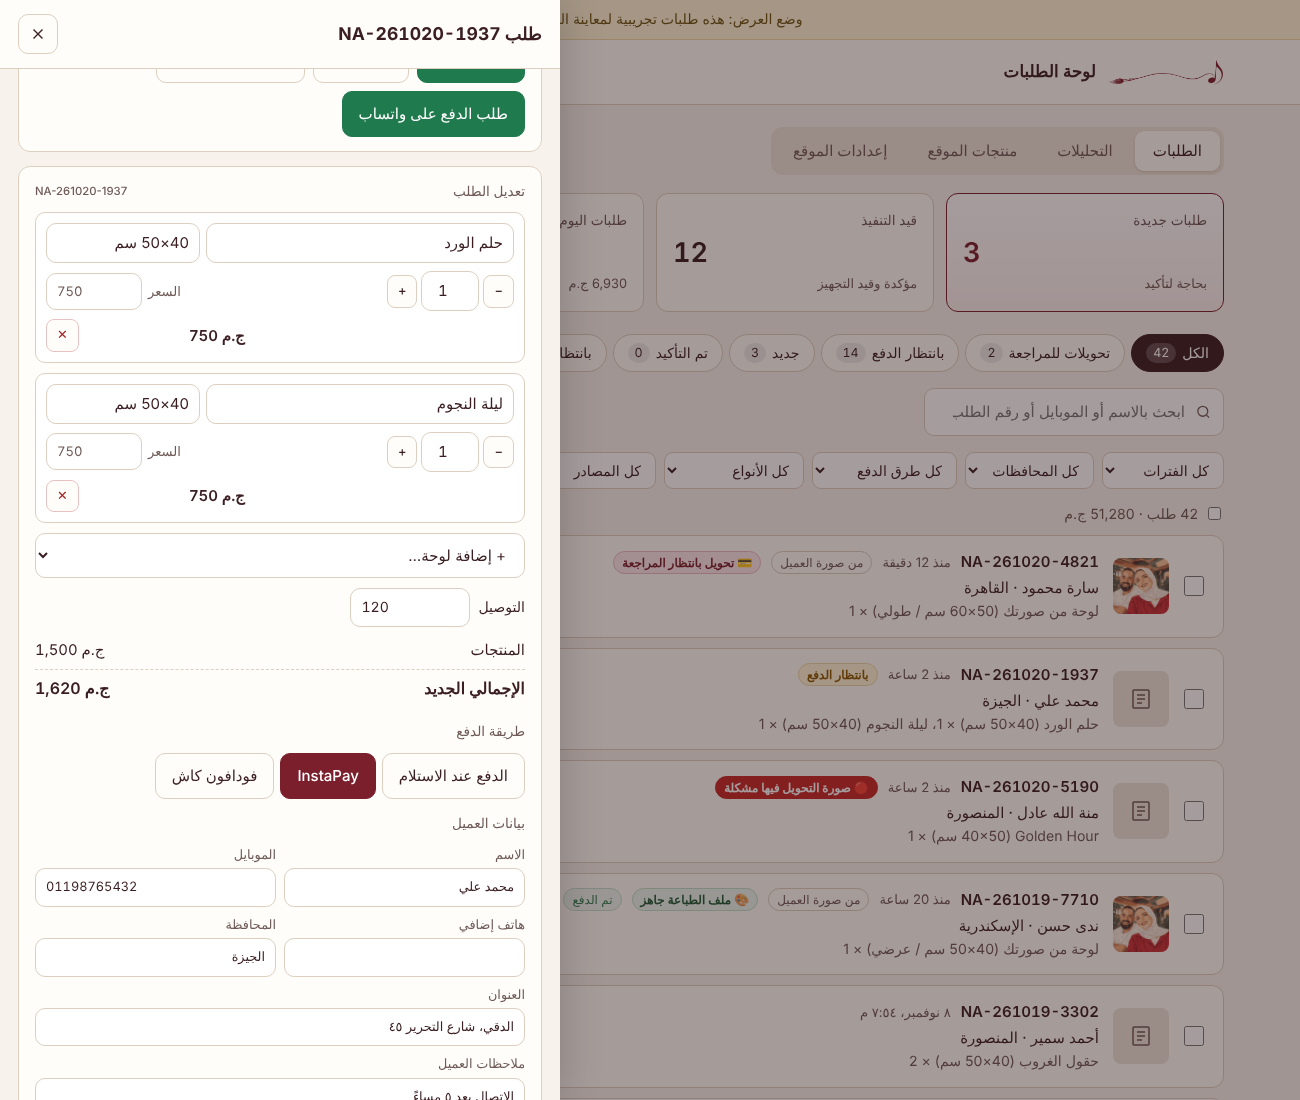
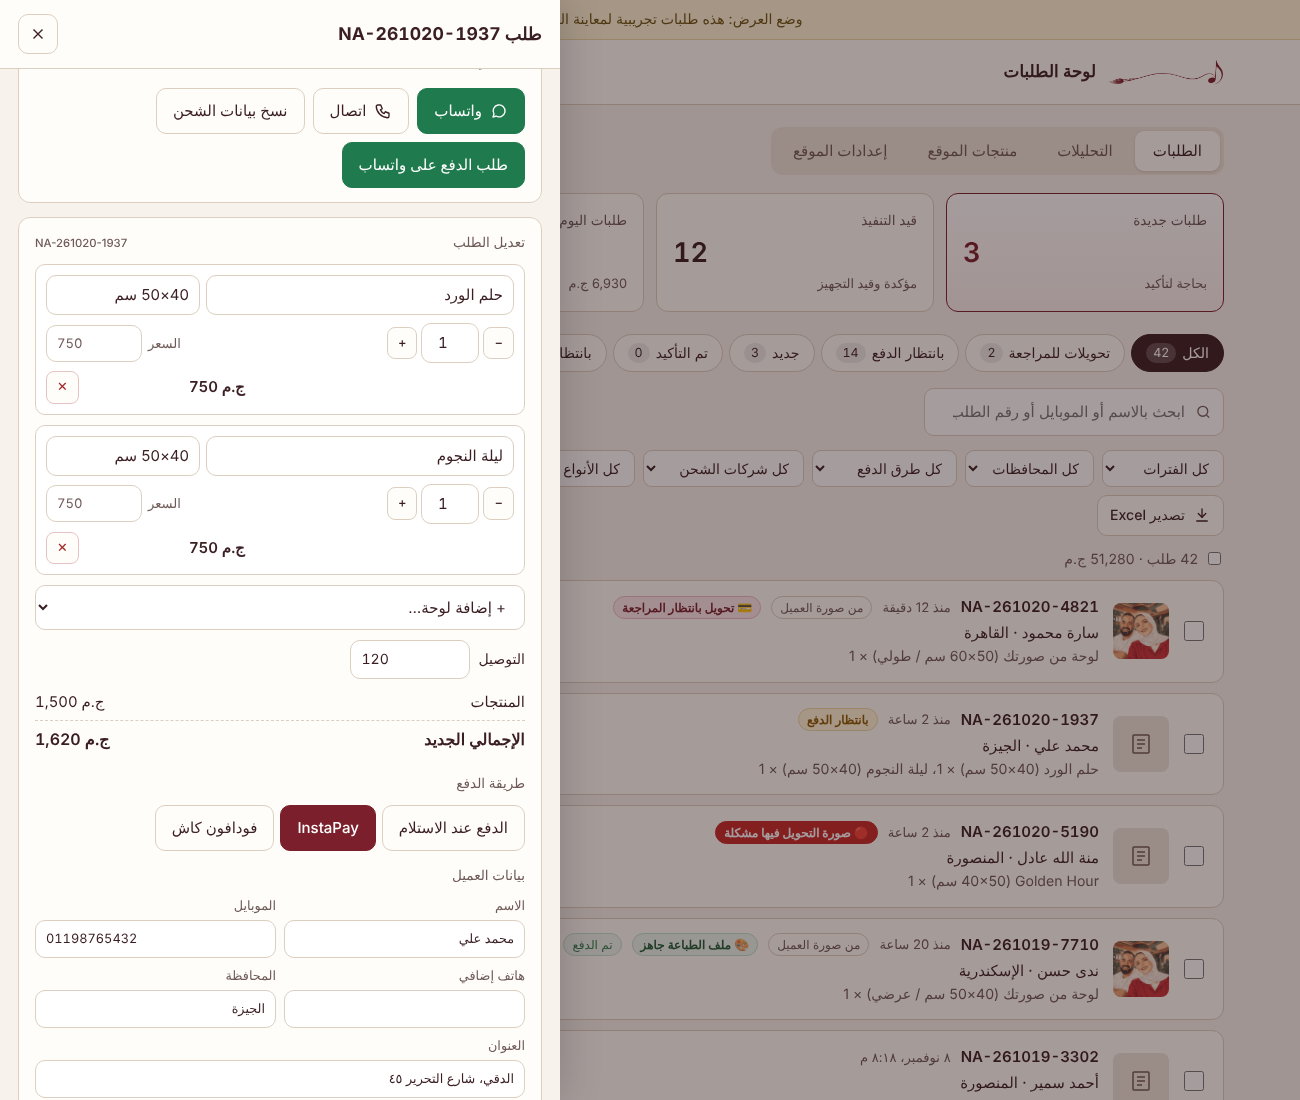
Website visit counter + visits/conversion section in dashboard analytics
- Site logs one row per visit and one per step reached (saw a painting, cart, checkout, order, WhatsApp, photo)
  to a 'Visits' sheet; bots, local previews and the owner's own devices are skipped
- Dashboard analytics: visits, visitors (new/returning), ordered vs didn't, conversion rate, cart and
  checkout drop-off, revenue per visit, visitor funnel, sources with conversion, daily visits, most viewed
  paintings, devices
- Orders now record the referring site (Instagram/Facebook/TikTok…) when there is no utm_source

Claude-Session: https://claude.ai/code/session_012qwmeryyhiwC2byANUMWpq

diff --git a/src/scripts/app.js b/src/scripts/app.js
@@ -115,6 +115,7 @@ function track(event, p = {}) {
     }
     if (window.clarity) window.clarity('event', event);
   } catch {}
+  visitStep({ view_item: 'view', add_to_cart: 'cart', begin_checkout: 'checkout', purchase: 'order', contact: p.method === 'whatsapp' ? 'whatsapp' : '', generate_lead: p.method === 'custom_photo' ? 'photo' : '' }[event]);
 }
 // remember where the visitor came from (first visit only)
 (() => {
@@ -129,6 +130,47 @@ function track(event, p = {}) {
   } catch {}
 })();
 const source = () => { try { return JSON.parse(sessionStorage.getItem('nay-src')) || {}; } catch { return {}; } };
+
+/** Where the visitor came from: the ad's utm_source, else the site that sent them (Instagram, Facebook, TikTok, Google…), else direct. */
+function trafficSource() {
+  const src = source(), host = (() => { try { return new URL(src.referrer).hostname.replace(/^www\./, ''); } catch { return ''; } })();
+  return String(src.utm_source || (src.fbclid ? 'facebook' : src.gclid ? 'google' : /instagram/.test(host) ? 'instagram' : /facebook|fb\.|messenger/.test(host) ? 'facebook' : /tiktok/.test(host) ? 'tiktok' : /google\./.test(host) ? 'google' : /whatsapp|wa\.me/.test(host) ? 'whatsapp' : host && host !== location.hostname ? host : 'direct')).toLowerCase().slice(0, 60);
+}
+/* ---------- visit counter (shown in the dashboard: visits → saw a painting → cart → checkout → order) ---------- */
+// One row per visit + one per step the visitor reaches. Bots, previews and the owner's own devices (logged into /admin) are not counted.
+const visit = (() => {
+  try {
+    const ua = navigator.userAgent || '';
+    const test = sessionStorage.getItem('nay-track-test') === '1';
+    if (!S.orders_endpoint || navigator.webdriver && !test || /bot|crawl|spider|slurp|lighthouse|headless|preview|facebookexternalhit|whatsapp\/|telegram/i.test(ua)) return null;
+    if (/^(localhost|127\.|\[::1\])/.test(location.hostname) && !test) return null;
+    if (localStorage.getItem('nay-owner') === '1') return null;
+    const rid = () => Date.now().toString(36) + Math.random().toString(36).slice(2, 10);
+    let vid = localStorage.getItem('nay-vid'); const ret = !!vid;
+    if (!vid) { vid = rid(); localStorage.setItem('nay-vid', vid); }
+    let ses = null; try { ses = JSON.parse(localStorage.getItem('nay-ses')); } catch {}
+    const now = Date.now(), fresh = !ses || now - ses.last > 30 * 60e3; // a new visit after 30 minutes away
+    if (fresh) ses = { id: rid(), last: now, steps: {} };
+    ses.last = now; localStorage.setItem('nay-ses', JSON.stringify(ses));
+    const src = source(), from = trafficSource();
+    const w = Math.min(screen.width, screen.height), device = /iPad|Tablet/i.test(ua) || (w >= 600 && /Android|Mobi/i.test(ua)) ? 'tablet' : /Mobi|Android|iPhone/i.test(ua) ? 'mobile' : 'desktop';
+    const base = { type: 'visit', vid, sid: ses.id, src: from, campaign: src.utm_campaign || '', device, lang, ret };
+    const send = (e, path) => {
+      const body = JSON.stringify({ ...base, e, path: path || location.pathname });
+      try { if (navigator.sendBeacon && navigator.sendBeacon(S.orders_endpoint, body)) return; } catch {}
+      fetch(S.orders_endpoint, { method: 'POST', body, keepalive: true, mode: 'no-cors' }).catch(() => {});
+    };
+    if (fresh) send('visit', src.landing || location.pathname);
+    return { step(e) {
+      let s = null; try { s = JSON.parse(localStorage.getItem('nay-ses')); } catch {}
+      if (!s || s.id !== ses.id) s = ses;
+      const k = e === 'view' ? 'view:' + location.pathname : e; // each painting page counts once per visit
+      if (s.steps[k]) return;
+      s.steps[k] = 1; s.last = Date.now(); localStorage.setItem('nay-ses', JSON.stringify(s)); send(e);
+    } };
+  } catch { return null; }
+})();
+function visitStep(e) { try { if (e && visit) visit.step(e); } catch {} }
 
 /* ---------- toast ---------- */
 function toast(m) { const t = $('toast'); t.textContent = m; t.classList.add('on'); clearTimeout(toast.h); toast.h = setTimeout(() => t.classList.remove('on'), 2200); }
@@ -269,7 +311,7 @@ async function placeOrder(btn) {
   const customer = { name: $('f-name').value.trim(), phone: phoneNumber($('f-phone').value), phone_extra: phoneNumber($('f-phone-extra').value), location: {...deliveryLocation}, city: T.gov[cityIdx], address: $('f-addr').value.trim(), notes: $('f-note').value.trim() };
   store.set('nay-customer', { name: customer.name, phone: customer.phone, phone_extra:customer.phone_extra, location:customer.location, city: cityIdx, addr: customer.address });
   const items = cart.map((c) => { const l = lineInfo(c); return { slug: c.kind === 'custom' ? 'custom' : c.slug, name: l.name, option: l.option, display: l.display, qty: c.q, price: l.price, line: l.price * c.q, custom: c.kind === 'custom', note: c.note || '', key: c.key, thumb: c.kind === 'custom' ? c.thumb || '' : '', ...(c.kind === 'custom' && c.crop ? { crop: c.crop } : {}), ...(c.kind === 'custom' && c.mimi ? { mimi_key: c.mimi } : {}) }; });
-  const order = { type: 'order', id, created: d.toISOString(), lang, customer, payment: payV, payment_label: payLabel, items, subtotal: t.sub, delivery: t.ship, total: t.total, source: source(), page: location.href };
+  const order = { type: 'order', id, created: d.toISOString(), lang, customer, payment: payV, payment_label: payLabel, items, subtotal: t.sub, delivery: t.ship, total: t.total, source: { ...source(), via: trafficSource() }, page: location.href };
   const transfer = isTransfer(payV) && transferProof ? { data: transferProof, ref: ($('trRef')?.value || '').trim() } : null;
   placingOrder = true; btn.disabled = true; btn.textContent = tr('placing');
   const photoList = (await Promise.all(cart.filter((c) => c.kind === 'custom').map(async (c) => ({ key: c.key, name: c.file || 'photo.jpg', data: photos[c.key] || (await photoDB.get(c.key)) || store.get('nay-photo-' + c.key, '') })))).filter((p) => p.data);
